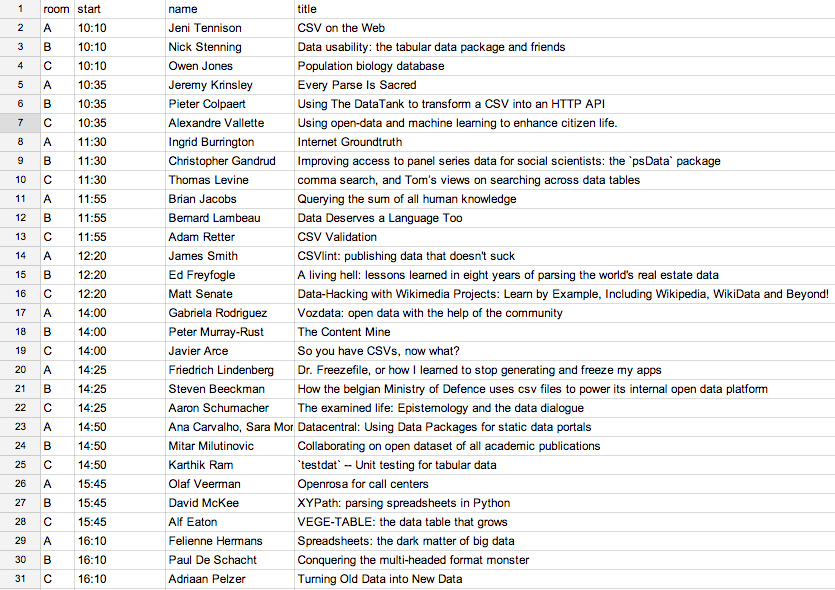
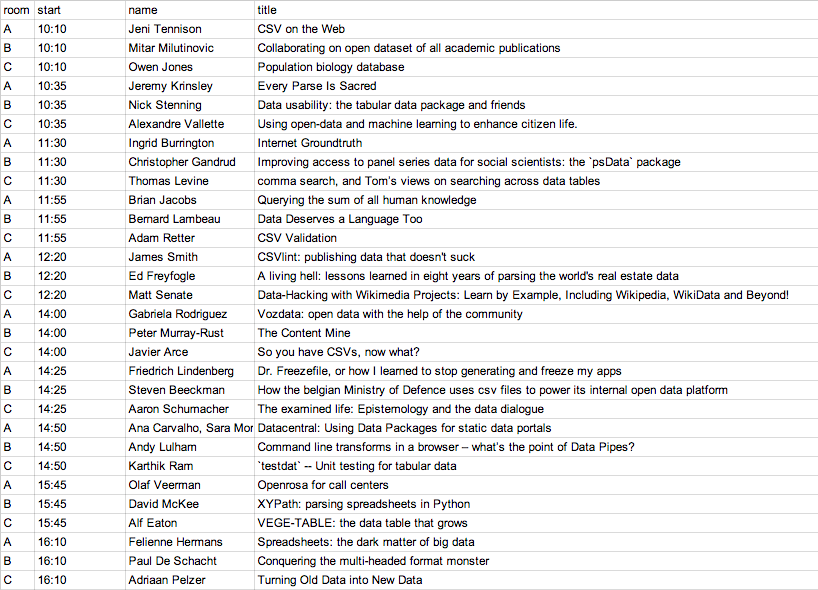
update schedule

diff --git a/index.html b/index.html
@@ -145,14 +145,14 @@
             <a href="#gabrielarodriguez"><h3>Vozdata: Open data with the help of the community</h3></a>
           </li>
           <li class="features-item">
-            <a href="https://twitter.com/pietercolpaert">
-              <span class="features-circle" style="background-image: url(img/speakers/pietercolpaert.png)">
+            <a href="https://twitter.com/andylolz">
+              <span class="features-circle" style="background-image: url(img/speakers/andylulham.jpeg)">
                 <span class="features-circle-icon">
                 </span>
               </span>
             </a>
-            <h4>Pieter Colpaert</h4>
-            <a href="#pietercolpaert"><h3>CSV over HTTP using The DataTank</h3></a>
+            <h4>Andy Lulham</h4>
+            <a href="#andylulham"><h3>CLI pipes in a browser - Data Pipes</h3></a>
           </li>
           <li class="features-item">
             <a href="https://twitter.com/Felienne">
@@ -457,15 +457,14 @@
             <p>In 2014, La Nacion in Argentina launched VozData, a website to crowdsource senate spendings by asking people to transcribe information from 6000 scanned PDF documents from the senate. This is a talk about the code that created that website and it can be used with any document set and any data you may need to take from them.</p>
           </div>
         </li>
-        <li id="pietercolpaert" class="presentation-item">
+        <li id="andylulham" class="presentation-item">
           <div class="left">
-            <h3>CSV over HTTP using The DataTank</h3>
-            <a href="https://twitter.com/pietercolpaert"><h4>Pieter Colpaert</h4></a>
-            <div class="bio">Pieter is pursuing a PhD at Ghent University - MMLab - iMinds on how to structure transport data as Open Data on the Web. He is also the chairman of Open Knowledge Belgium, an official chapter of Open Knowledge Central.</div>
+            <h3>Command line transforms in a browser – what’s the point of Data Pipes?</h3>
+            <a href="https://twitter.com/andylolz"><h4>Andy Lulham</h4></a>
+            <div class="bio">Freelance software developer. Transparency, open data, volunteering, teaching, campaigning, sustainability.</div>
           </div>
           <div class="right">
-            <p><a href="https://twitter.com/pudo/status/248473299741446144">"CSV is the data Kalashnikov: not pretty, but many wars have been fought with it and kids can use it."</a>. The Web still has to learn how to work with CSV though. What data publishing features can the HTTP protocol bring to CSV file?</p>
-        <p>We are going to discuss what data publishing really is, who needs it, and why not all Web-services are great at publishing data. As an example, The DataTank provides data publishing over HTTP of data that are stored in, amongst others, a CSV file. It builds a new URI for it, makes it discoverable, renders different serializations based on content negotiation and much more.</p>
+            <p>Data Pipes (a tool for sharing htmlified, transformed data) has received a fair amount of stick for taking command line data tools and hammering them into the browser bar. Here, we discuss when and how this can make for a useful tool – particularly in the context of teaching data science to newbies.</p>
           </div>
         </li>
         <li id="feliennehermans" class="presentation-item">
